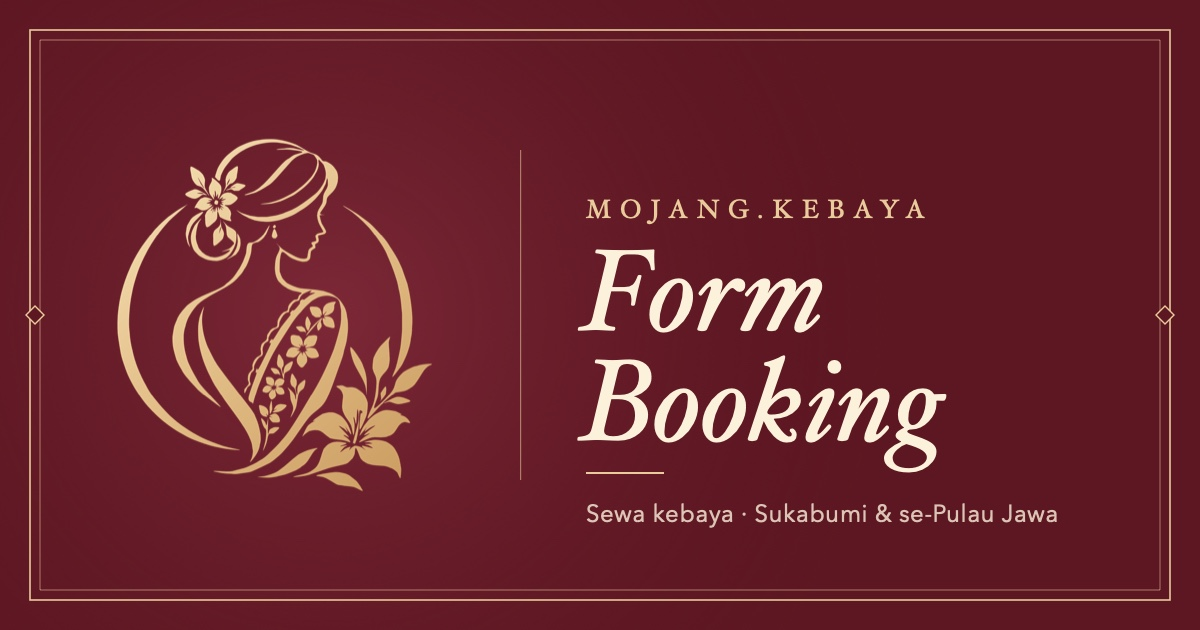
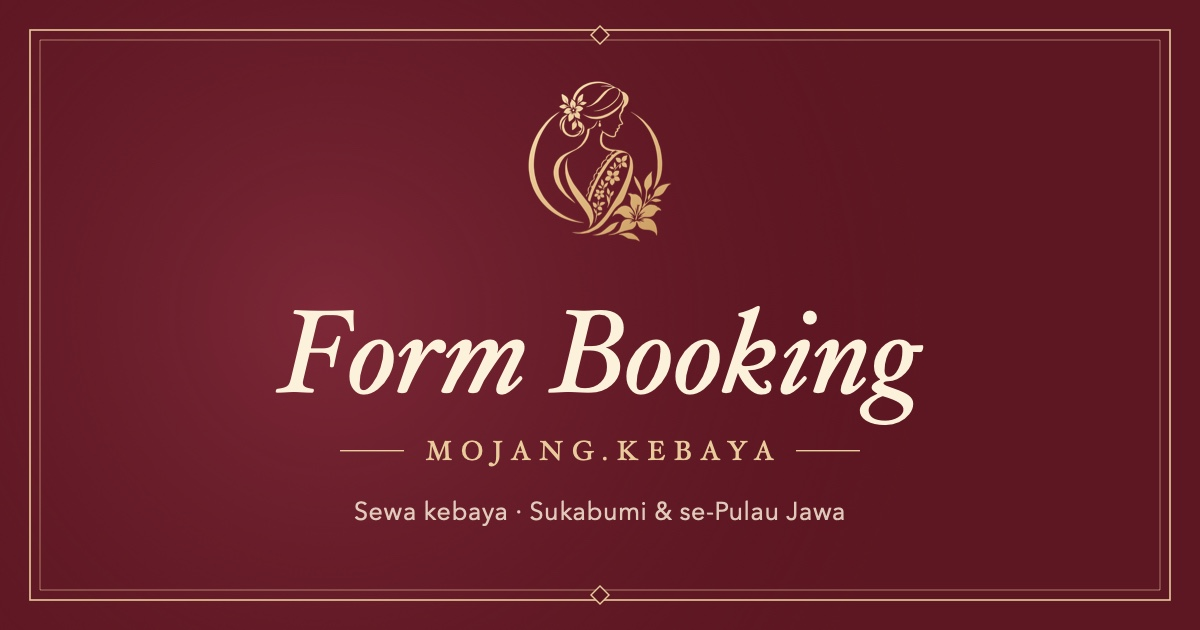
Gambar pratinjau link (OG): beranda, katalog & booking gaya kartu undangan
- image/og/beranda.jpg (baru): "Cantik itu Kamu, Kebayanya Kami."
- image/og/katalog.jpg: "Katalog Kebaya", 15 kebaya full payet mulai Rp300rb
- image/og/booking.jpg: "Form Booking"
Logo emas di atas, judul miring, MOJANG.KEBAYA di antara dua garis,
bingkai emas di latar marun. Alamat gambar diberi ?v= otomatis supaya
WhatsApp mengambil gambar baru. Pembuat gambar: tools/og-gambar.swift.

diff --git a/tools/og-gambar.swift b/tools/og-gambar.swift
@@ -1,0 +1,151 @@
+// =============================================================
+// MOJANG.KEBAYA — GAMBAR PRATINJAU LINK (Open Graph, 1200x630)
+// Gambar yang muncul saat link dibagikan di WhatsApp/IG/FB: latar marun,
+// bingkai garis emas, logo emas, judul huruf kapital Didot berjarak lebar.
+//
+// Tata letak:
+//   samping : logo besar di kiri, judul dua baris di kanan
+//   palet   : logo kecil di atas judul (kiri), 15 contoh warna kebaya (per series) di kanan
+//   form    : logo kecil di atas judul (kiri), sketsa form bergaris emas di kanan
+//   undangan: semua di tengah seperti kartu undangan: logo di atas, judul miring satu baris,
+//             MOJANG.KEBAYA di antara dua garis, keterangan  ← DIPAKAI SEKARANG
+//
+// Buat ulang (mis. jumlah kebaya, warna atau harga berubah), dari folder proyek:
+//   swift tools/og-gambar.swift undangan image/og/booking.jpg "Form" "Booking" "Sewa kebaya · Sukabumi & se-Pulau Jawa"
+//   swift tools/og-gambar.swift undangan image/og/katalog.jpg "Katalog" "Kebaya" "15 kebaya full payet · mulai Rp300rb"
+//   swift tools/og-gambar.swift undangan image/og/beranda.jpg "Cantik itu Kamu," "Kebayanya Kami." "Sewa kebaya full payet · Sukabumi & se-Pulau Jawa"
+//   (tata letak lain: ganti "undangan" dengan form / palet / samping; judul ditulis kapital, mis. "KATALOG" "KEBAYA")
+// Warna di tata letak "palet" ada di daftar PALET di bawah (sama dengan data.js).
+// Butuh macOS (huruf Didot & Avenir Next bawaan Mac).
+// =============================================================
+import Foundation
+import CoreGraphics
+import CoreText
+import ImageIO
+import UniformTypeIdentifiers
+
+let W: CGFloat = 1200, H: CGFloat = 630
+let a = CommandLine.arguments
+let mode = a[1], out = a[2], T1 = a[3], T2 = a[4], SUB = a[5]
+let root = URL(fileURLWithPath: #filePath).deletingLastPathComponent().deletingLastPathComponent()
+let PALET: [(String, [Int])] = [
+  ("GEULIS", [0x6B1E2B, 0xF2C6D0, 0xC99A86, 0xEFD98F, 0xE6D2BC]),
+  ("ARUNI", [0x1F2A4A, 0xE7B7BC, 0xE3CDB5, 0xDDB3A7, 0x11605E]),
+  ("KINASIH · NISKALA · PUSPA", [0x9A9A98, 0xB9D3E2, 0x5E1A22, 0xBED6E4, 0x5A2A1E])]
+
+func load(_ p: String) -> CGImage { CGImageSourceCreateImageAtIndex(CGImageSourceCreateWithURL(URL(fileURLWithPath: p) as CFURL, nil)!, 0, nil)! }
+func hex(_ h: Int, _ al: CGFloat = 1) -> CGColor { CGColor(red: CGFloat((h >> 16) & 255) / 255, green: CGFloat((h >> 8) & 255) / 255, blue: CGFloat(h & 255) / 255, alpha: al) }
+let MAROON = hex(0x4A0F1A), IVORY = hex(0xFBEFD3), GOLD = hex(0xE4C08A)
+let c = CGContext(data: nil, width: Int(W), height: Int(H), bitsPerComponent: 8, bytesPerRow: 0, space: CGColorSpaceCreateDeviceRGB(), bitmapInfo: CGImageAlphaInfo.premultipliedLast.rawValue)!
+c.interpolationQuality = .high
+func R(_ x: CGFloat, _ top: CGFloat, _ w: CGFloat, _ h: CGFloat) -> CGRect { CGRect(x: x, y: H - top - h, width: w, height: h) }
+func line(_ s: String, _ font: String, _ size: CGFloat, _ color: CGColor, _ kern: CGFloat) -> (CTLine, CGFloat) {
+  let attr = NSAttributedString(string: s, attributes: [
+    NSAttributedString.Key(kCTFontAttributeName as String): CTFontCreateWithName(font as CFString, size, nil),
+    NSAttributedString.Key(kCTForegroundColorAttributeName as String): color,
+    NSAttributedString.Key(kCTKernAttributeName as String): kern])
+  let l = CTLineCreateWithAttributedString(attr)
+  return (l, CGFloat(CTLineGetTypographicBounds(l, nil, nil, nil)) - kern)   // tanpa jarak setelah huruf terakhir
+}
+func text(_ s: String, x: CGFloat, baseline top: CGFloat, font: String, size: CGFloat, color: CGColor, kern: CGFloat = 0) {
+  let (l, _) = line(s, font, size, color, kern)
+  c.textPosition = CGPoint(x: x, y: H - top); CTLineDraw(l, c)
+}
+/// Judul dua baris Didot kapital, ukuran otomatis supaya baris terpanjang muat di `maxW`.
+func title(x: CGFloat, top1: CGFloat, maxW: CGFloat, maxSize: CGFloat) -> CGFloat {
+  var size = maxSize
+  func widest(_ s: CGFloat) -> CGFloat { max(line(T1, "Didot", s, IVORY, s * 0.09).1, line(T2, "Didot", s, IVORY, s * 0.09).1) }
+  while widest(size) > maxW { size -= 1 }
+  text(T1, x: x, baseline: top1, font: "Didot", size: size, color: IVORY, kern: size * 0.09)
+  text(T2, x: x, baseline: top1 + size * 1.08, font: "Didot", size: size, color: IVORY, kern: size * 0.09)
+  return top1 + size * 1.08
+}
+func diamond(_ cx: CGFloat, _ cy: CGFloat, _ r: CGFloat) {
+  let p = CGMutablePath(); p.move(to: CGPoint(x: cx, y: cy + r)); p.addLine(to: CGPoint(x: cx + r, y: cy)); p.addLine(to: CGPoint(x: cx, y: cy - r)); p.addLine(to: CGPoint(x: cx - r, y: cy)); p.closeSubpath()
+  c.addPath(p); c.setFillColor(MAROON); c.fillPath(); c.addPath(p); c.setStrokeColor(GOLD); c.setLineWidth(1.4); c.strokePath()
+}
+
+// latar marun + cahaya lembut + bingkai emas ganda
+c.setFillColor(MAROON); c.fill(CGRect(x: 0, y: 0, width: W, height: H))
+let glow = CGGradient(colorsSpace: CGColorSpaceCreateDeviceRGB(), colors: [hex(0x6E1D2D, 0.85), hex(0x4A0F1A, 0)] as CFArray, locations: [0, 1])!
+c.drawRadialGradient(glow, startCenter: CGPoint(x: 330, y: H / 2), startRadius: 0, endCenter: CGPoint(x: 330, y: H / 2), endRadius: 600, options: [])
+c.setStrokeColor(GOLD); c.setLineWidth(1.6); c.stroke(CGRect(x: 30, y: 30, width: W - 60, height: H - 60))
+c.setStrokeColor(hex(0xE4C08A, 0.7)); c.setLineWidth(0.8); c.stroke(CGRect(x: 40, y: 40, width: W - 80, height: H - 80))
+
+let logo = load(root.appendingPathComponent("image/logo/mojang-logo-gold.png").path)
+let ratio = CGFloat(logo.height) / CGFloat(logo.width)
+let EYEBROW = "MOJANG.KEBAYA"
+
+func round(_ r: CGRect, _ rad: CGFloat) -> CGPath { CGPath(roundedRect: r, cornerWidth: rad, cornerHeight: rad, transform: nil) }
+let LABEL = hex(0xE4C08A, 0.9)
+if mode == "palet" || mode == "form" {
+  // kolom kiri: logo kecil di atas, MOJANG.KEBAYA, judul, garis, keterangan
+  for y in [CGFloat(35), H - 35] { diamond(W / 2, y, 9) }
+  let L: CGFloat = 96
+  c.draw(logo, in: R(L, 100, 74, 74 * ratio))
+  text(EYEBROW, x: L, baseline: 232, font: "Didot", size: 22, color: GOLD, kern: 7)
+  let last = title(x: L - 2, top1: 330, maxW: 470, maxSize: 96)
+  c.setFillColor(GOLD); c.fill(R(L, last + 34, 74, 2))
+  text(SUB, x: L, baseline: last + 82, font: "AvenirNext-Regular", size: 23, color: hex(0xFBEFD3, 0.82), kern: 0.5)
+}
+if mode == "undangan" {
+  for y in [CGFloat(35), H - 35] { diamond(W / 2, y, 9) }
+  let lw: CGFloat = 150
+  c.draw(logo, in: R(W / 2 - lw / 2, 78, lw, lw * ratio))
+  let t = "\(T1) \(T2)"
+  var size: CGFloat = 118
+  while line(t, "HoeflerText-Italic", size, IVORY, 0).1 > 1000 { size -= 1 }
+  let (_, tw) = line(t, "HoeflerText-Italic", size, IVORY, 0)
+  text(t, x: W / 2 - tw / 2, baseline: 392, font: "HoeflerText-Italic", size: size, color: IVORY)
+  let (_, mw) = line(EYEBROW, "HoeflerText-Regular", 27, GOLD, 9)
+  text(EYEBROW, x: W / 2 - mw / 2, baseline: 460, font: "HoeflerText-Regular", size: 27, color: GOLD, kern: 9)
+  c.setFillColor(GOLD); c.fill(R(W / 2 - mw / 2 - 86, 450, 64, 1.4)); c.fill(R(W / 2 + mw / 2 + 22, 450, 64, 1.4))
+  let (_, sw) = line(SUB, "AvenirNext-Regular", 25, IVORY, 0.6)
+  text(SUB, x: W / 2 - sw / 2, baseline: 520, font: "AvenirNext-Regular", size: 25, color: hex(0xFBEFD3, 0.82), kern: 0.6)
+} else if mode == "form" {
+  // sketsa form bergaris emas: dua kolom isian, pilihan Sukabumi / Luar kota, tombol lanjut
+  let fx: CGFloat = 640, fw: CGFloat = 458
+  func label(_ s: String, _ top: CGFloat) { text(s, x: fx, baseline: top - 14, font: "AvenirNext-DemiBold", size: 15, color: LABEL, kern: 3) }
+  func outline(_ r: CGRect, _ rad: CGFloat) { c.addPath(round(r, rad)); c.setStrokeColor(GOLD); c.setLineWidth(1.6); c.strokePath() }
+  label("NAMA LENGKAP", 150); outline(R(fx, 150, fw, 58), 12)
+  label("NOMOR WHATSAPP", 262); outline(R(fx, 262, fw, 58), 12)
+  label("PENGAMBILAN", 374)
+  let half = (fw - 14) / 2
+  outline(R(fx, 374, half, 58), 12)
+  c.addPath(round(R(fx + half + 14, 374, half, 58), 12)); c.setFillColor(GOLD); c.fillPath()
+  func centered(_ s: String, _ cx: CGFloat, _ top: CGFloat, _ col: CGColor) {
+    let (_, w) = line(s, "AvenirNext-DemiBold", 18, col, 2.5); text(s, x: cx - w / 2, baseline: top, font: "AvenirNext-DemiBold", size: 18, color: col, kern: 2.5)
+  }
+  centered("SUKABUMI", fx + half / 2, 409, IVORY)
+  centered("LUAR KOTA", fx + half + 14 + half / 2, 409, MAROON)
+  c.addPath(round(R(fx, 458, fw, 62), 31)); c.setFillColor(IVORY); c.fillPath()
+  centered("LANJUT KE FORM BOOKING  →", fx + fw / 2, 496, MAROON)
+} else if mode == "palet" {
+  let gx: CGFloat = 640, r: CGFloat = 34, gap: CGFloat = 96
+  for (i, (name, cols)) in PALET.enumerated() {
+    let top = 150 + CGFloat(i) * 140
+    text(name, x: gx, baseline: top - 14, font: "AvenirNext-DemiBold", size: 15, color: hex(0xE4C08A, 0.9), kern: 3)
+    for (j, col) in cols.enumerated() {
+      let cx = gx + r + CGFloat(j) * gap, cy = H - top - r
+      c.setShadow(offset: CGSize(width: 0, height: -6), blur: 14, color: hex(0x1A0308, 0.6))
+      c.setFillColor(hex(col)); c.fillEllipse(in: CGRect(x: cx - r, y: cy - r, width: 2 * r, height: 2 * r))
+      c.setShadow(offset: .zero, blur: 0, color: nil)
+      c.setStrokeColor(GOLD); c.setLineWidth(1.6); c.strokeEllipse(in: CGRect(x: cx - r - 5, y: cy - r - 5, width: 2 * r + 10, height: 2 * r + 10))
+    }
+  }
+} else {   // samping
+  for x in [CGFloat(35), W - 35] { diamond(x, H / 2, 9) }
+  let lw: CGFloat = 330
+  c.draw(logo, in: R(110, (H - lw * ratio) / 2, lw, lw * ratio))
+  c.setFillColor(hex(0xE4C08A, 0.55)); c.fill(R(520, 150, 1.2, H - 300))
+  let tx: CGFloat = 586
+  text(EYEBROW, x: tx, baseline: 214, font: "Didot", size: 24, color: GOLD, kern: 8)
+  let last = title(x: tx - 2, top1: 320, maxW: 520, maxSize: 100)
+  c.setFillColor(GOLD); c.fill(R(tx, last + 36, 78, 2))
+  text(SUB, x: tx, baseline: last + 86, font: "AvenirNext-Regular", size: 24, color: hex(0xFBEFD3, 0.8), kern: 0.6)
+}
+
+let d = CGImageDestinationCreateWithURL(URL(fileURLWithPath: out) as CFURL, UTType.jpeg.identifier as CFString, 1, nil)!
+CGImageDestinationAddImage(d, c.makeImage()!, [kCGImageDestinationLossyCompressionQuality: 0.9] as CFDictionary)
+CGImageDestinationFinalize(d)
+print("ok", mode, out)

diff --git a/index.html b/index.html
@@ -15,7 +15,10 @@
   <meta property="og:title" content="Mojang.Kebaya – Sewa Kebaya Full Payet Sukabumi">
   <meta property="og:url" content="https://mojangkebaya.vercel.app/">
   <meta property="og:description" content="15 kebaya full payet mulai Rp300rb. Free laundry & resize, kirim se-Pulau Jawa.">
-  <meta property="og:image" content="https://mojangkebaya.vercel.app/image/editorial/hero-navy.jpg">
+  <meta property="og:image" content="https://mojangkebaya.vercel.app/image/og/beranda.jpg?v=6be39ca5">
+  <meta property="og:image:width" content="1200">
+  <meta property="og:image:height" content="630">
+  <meta property="og:image:alt" content="Mojang.Kebaya: Cantik itu Kamu, Kebayanya Kami. Sewa kebaya full payet Sukabumi &amp; se-Pulau Jawa">
   <meta name="twitter:card" content="summary_large_image">
 
   <link rel="preconnect" href="https://fonts.googleapis.com">

diff --git a/katalog.html b/katalog.html
@@ -13,7 +13,10 @@
   <meta property="og:title" content="Katalog Kebaya – Mojang.Kebaya">
   <meta property="og:url" content="https://mojangkebaya.vercel.app/katalog.html">
   <meta property="og:description" content="15 kebaya full payet mulai Rp300rb. Free laundry & resize, kirim se-Pulau Jawa.">
-  <meta property="og:image" content="https://mojangkebaya.vercel.app/image/editorial/hero-navy.jpg">
+  <meta property="og:image" content="https://mojangkebaya.vercel.app/image/og/katalog.jpg?v=789f58b0">
+  <meta property="og:image:width" content="1200">
+  <meta property="og:image:height" content="630">
+  <meta property="og:image:alt" content="Katalog Kebaya Mojang.Kebaya: 15 kebaya full payet mulai Rp300rb">
   <meta name="twitter:card" content="summary_large_image">
 
   <link rel="preconnect" href="https://fonts.googleapis.com">

diff --git a/booking.html b/booking.html
@@ -12,7 +12,7 @@
   <meta property="og:locale" content="id_ID">
   <meta property="og:title" content="Form Booking – Mojang.Kebaya">
   <meta property="og:description" content="Isi data booking setelah tanggal dicek &amp; deposit Rp100.000 ditransfer.">
-  <meta property="og:image" content="https://mojangkebaya.vercel.app/image/og/booking.jpg">
+  <meta property="og:image" content="https://mojangkebaya.vercel.app/image/og/booking.jpg?v=b1081804">
   <meta property="og:image:width" content="1200">
   <meta property="og:image:height" content="630">
   <meta property="og:image:alt" content="Form Booking Mojang.Kebaya, sewa kebaya Sukabumi &amp; se-Pulau Jawa">

diff --git a/CARA-PASANG.md b/CARA-PASANG.md
@@ -79,6 +79,15 @@ booking yang lama (di balasan WhatsApp, bio Instagram, dll.).
   Jika teks pilihan *Pengambilan* di Google Form diubah, samakan juga di `FORM_BOOKING.pengambilan`.
 - Hapus baris log paling lambat 30 hari setelah kebaya kembali (janji di halaman booking).
 
+## Gambar pratinjau link (WhatsApp, IG, FB)
+- Gaya kartu undangan (logo emas, judul miring, bingkai emas di latar marun):
+  `image/og/beranda.jpg` (beranda), `image/og/katalog.jpg` (katalog), `image/og/booking.jpg` (form booking).
+  Halaman tiap kebaya memakai foto kebayanya sendiri.
+- Jika jumlah kebaya atau harga berubah, buat ulang gambar katalog (perintah ada di bagian atas
+  `tools/og-gambar.swift`), lalu push.
+- WhatsApp menyimpan pratinjau lama di HP. Untuk melihat yang baru, kirim link dengan tambahan
+  `?v=2`, `?v=3`, dst., dan tunggu kotak pratinjau muncul sebelum menekan kirim.
+
 ## Privasi
 - Kalender ketersediaan (Google Calendar) bisa dilihat siapa saja, **termasuk judul,
   catatan dan lokasi acara**: tulis judul cukup "Dipesan", jangan nama, nomor WA atau
